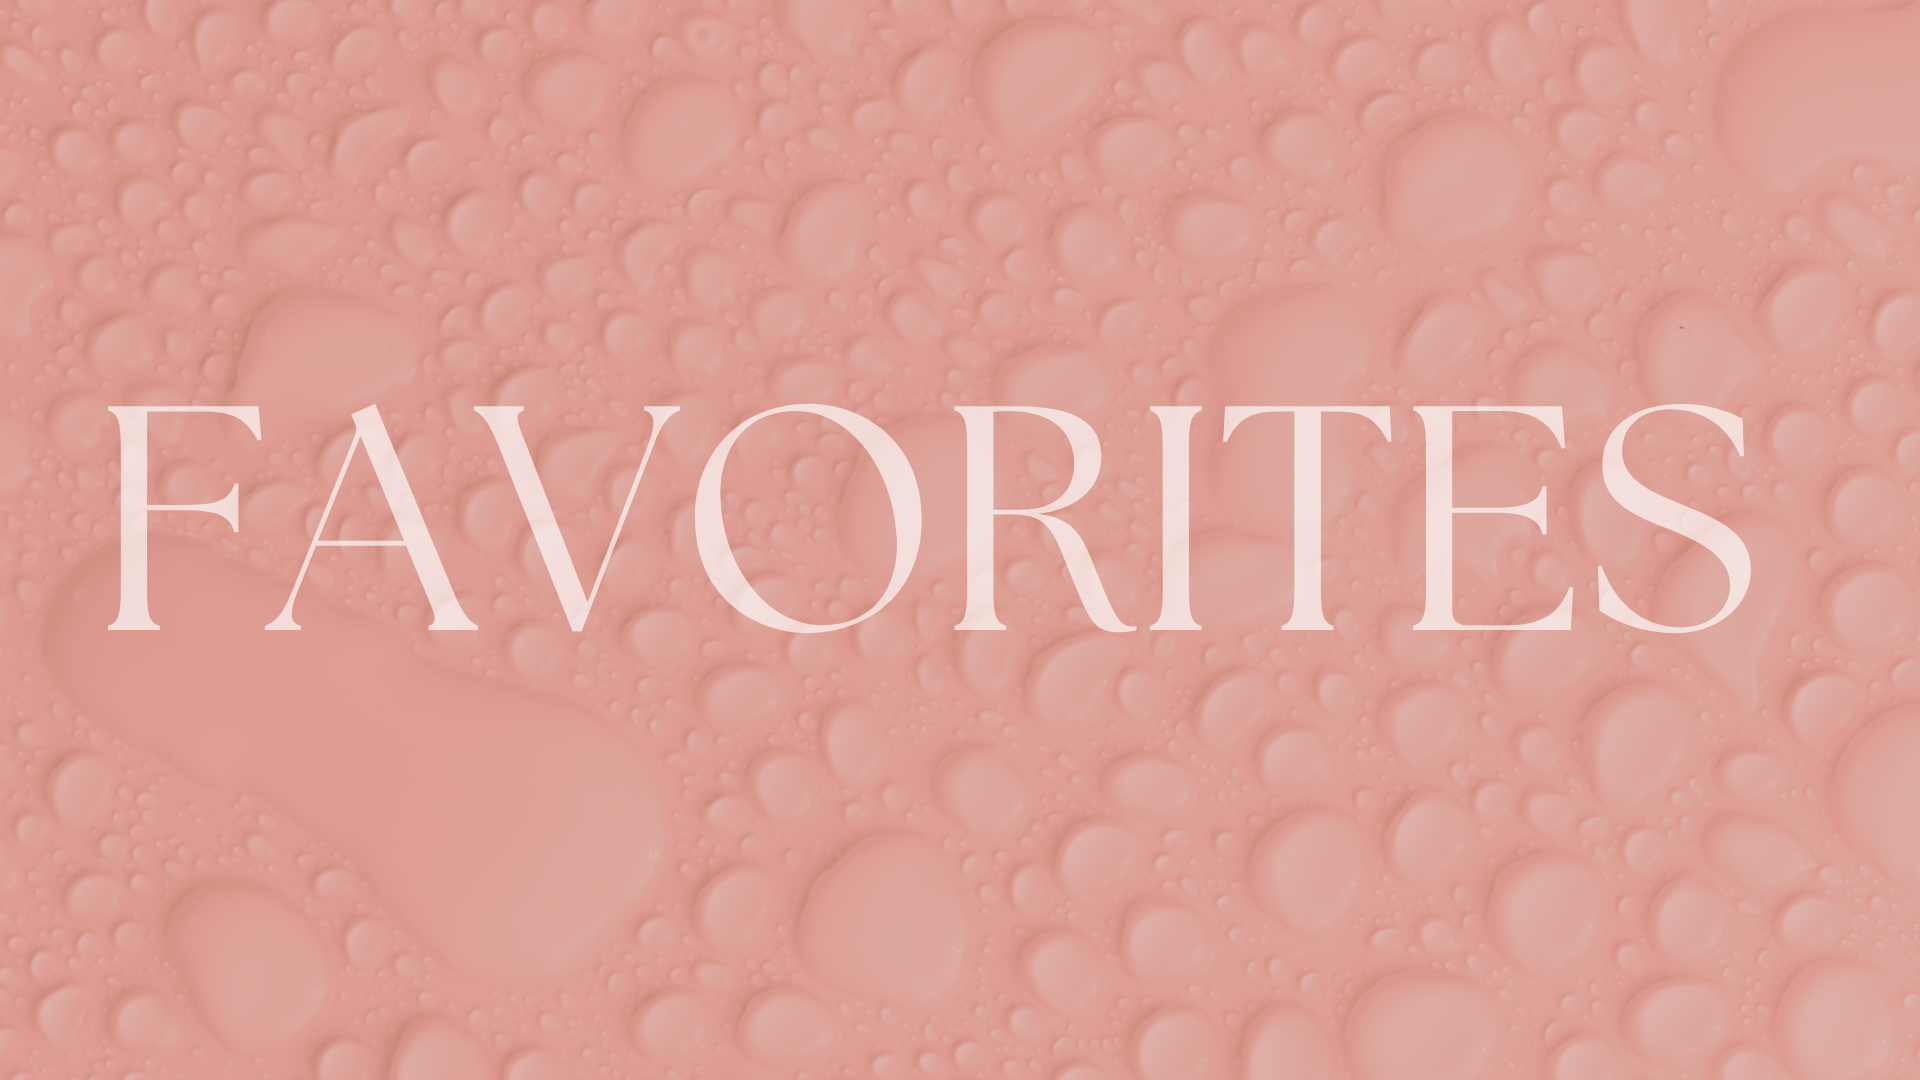
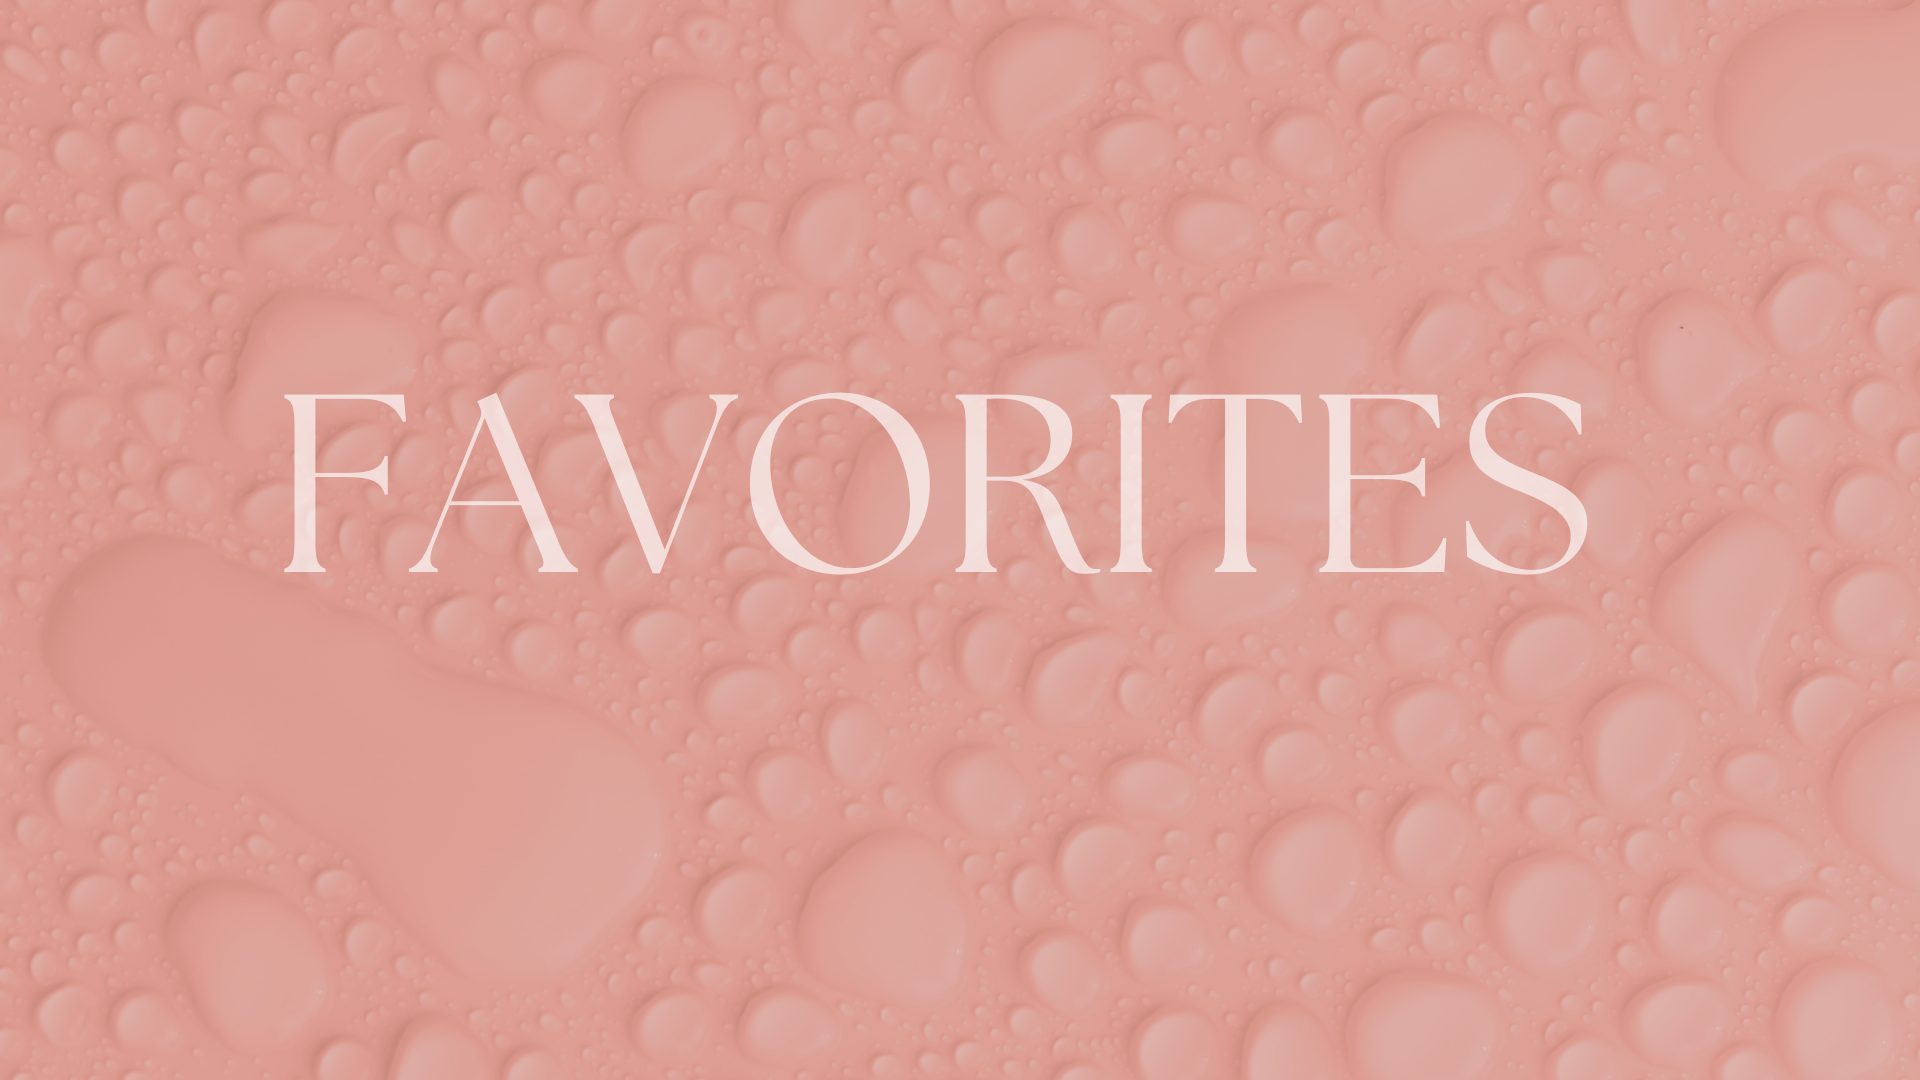
dddddd

Changed region(s): [[0.0625, 0.3667, 0.9375, 0.6111]]

diff --git a/Assets/css/style.css b/Assets/css/style.css
@@ -125,7 +125,7 @@ header#contacts-header{
     background-attachment: inherit;
     background-size: cover;
     padding-left: 0px;
-    background-image: url('../images/contacts.me.jpg');
+    background-image: url('../images/contacts-final.png');
 }
 /*album banner*/
 .banner-section-album {
@@ -146,7 +146,7 @@ header#album-header{
     background-attachment: inherit;
     background-size: cover;
     padding-left: 0px;
-    background-image: url('../images/Album2.jpg');
+    background-image: url('../images/album.png');
 }
 /*favorites banner*/
 .banner-section-album {
@@ -167,7 +167,7 @@ header#favorites-header{
     background-attachment: inherit;
     background-size: cover;
     padding-left: 0px;
-    background-image: url('../images/background\ about.jpg');
+    background-image: url('../images/favorite.png');
 }
 /*Home banner*/
 .banner-section-album {

diff --git a/Web-pages/contacts.html b/Web-pages/contacts.html
@@ -34,7 +34,6 @@
                 <section class="banner-section-account">
                     <div class ="container">
                         <div class="banner">
-                            <h6>Contacts</h6>
                         </div>  
                     <div>            
                 </section>

diff --git a/Web-pages/Album.html b/Web-pages/Album.html
@@ -35,7 +35,6 @@
                 <section class="banner-section-album">
                     <div class ="container">
                         <div class="banner">
-                            <h5>My Album</h5>
                         </div>  
                     <div>            
                 </section>

diff --git a/Web-pages/Favorites.html b/Web-pages/Favorites.html
@@ -39,7 +39,6 @@
             <section class="banner-section-favorites">
               <div class ="container">
                   <div class="banner">
-                      <h7>Favorites</h7>
                   </div>  
               <div>            
           </section>
